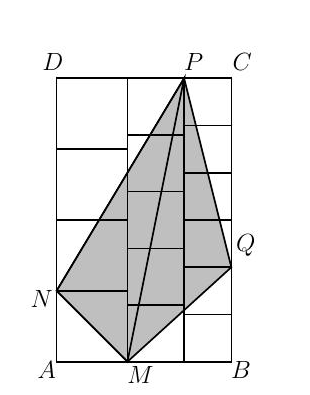
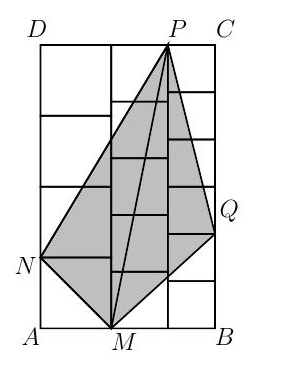
Use EMT 2023 Grade 6 statement figures

Changed region(s): [[0.0561, 0.0312, 0.8421, 0.9974], [0.786, 0.0312, 0.8421, 0.0623], [0.7579, 0.0623, 0.786, 0.0935]]

diff --git a/klasirane/EMT/2023/6.tex b/klasirane/EMT/2023/6.tex
@@ -4,7 +4,7 @@
 % Решения: https://klasirane.com/api/competitions/EMT/All/2023/6%20%D0%BA%D0%BB/sol
 % SHA-256 (решения): 2323041074fbea3cedaa7c0596c9d0669882a380ae0b61bb61ced35308aaf7bb
 % Точковите оценки, правописът, формулировките и видимите печатни грешки са запазени от източника.
-% Двете фигури са изрязани без редакция от растеризация на официалния PDF с решенията.
+% Двете фигури са изрязани без редакция от растеризация на официалния PDF с условията.
 
 Задача 6.1. Пресметнете числата $a$ и $b$:
 $$
